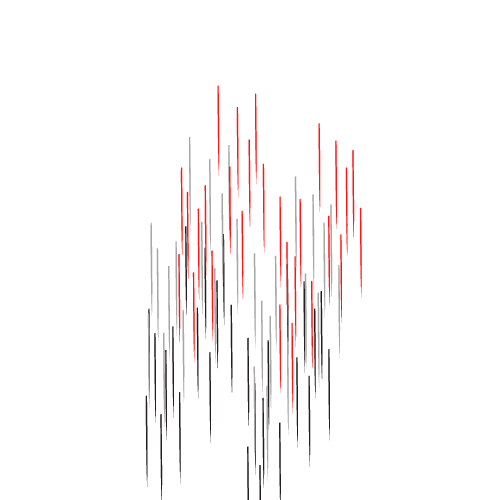
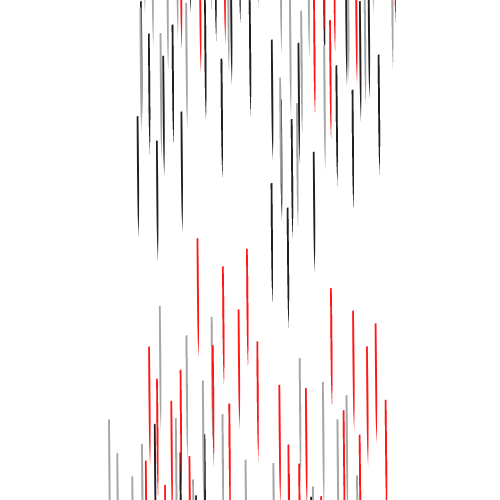
bug fixes

Changed region(s): [[0.21, 0.0, 0.78, 1.0], [0.78, 0.0, 0.81, 0.09]]

diff --git a/New_Personal_Project/app.js b/New_Personal_Project/app.js
@@ -29,14 +29,13 @@ let bombsTiming = 500;
 function loopSpeedLines() {
 let speedTest = document.querySelector(".speed");
 let i = 1;
- setInterval(() => {
+let speedLoop = setInterval(() => {
   speedTest.style.backgroundImage = "url('assets/" + i + ".png')";
   i++;
-  if (i > 11) {
+  if (i > 10) {
     i = 1;
   }
  }, 100)
-
 }
 
 function updateLvlOnStart (x) {
@@ -235,7 +234,6 @@ function addPlayerShip() {
 function removePlayerShip() {                      // remove playership
 cells[playerPosit].classList.remove('playerShip');
 cells[speedPos].classList.remove('speed');
-cells[speedPos].style.backgroundImage = '';
 }
 
 function removeAlienShip(z) {                      //remove playership
@@ -324,7 +322,6 @@ function dropBombs(bombsTiming) {           //time loop that drops bombs from al
 
 function levelChange(x) { //change level and restart game
   x ++;                                 //for each level change +1
- //saves the player name
   localStorage.setItem("level", x); //saves the level number
   localStorage.setItem("bombs", x); //saves the player name
   location.reload(); //reloads the game
@@ -340,7 +337,6 @@ function levelChange(x) { //change level and restart game
     for (let i = 0; i < cellCount; i++) {
       if ((cells[i].classList.contains('alienShip') && cells[i].classList.contains('rocksClass')) || (cells[i].classList.contains('alienShip2') && cells[i].classList.contains('rocksClass')) || (cells[i].classList.contains('alienShip3') && cells[i].classList.contains('rocksClass')) ) {
         gameOver = 2;
-        console.log(gameOver)
       }
   }
 }

diff --git a/New_Personal_Project/style.css b/New_Personal_Project/style.css
@@ -46,7 +46,7 @@ body{
 }
 
 .alienBomb {
-  background-image: url('assets/nuclear-bomb.png');
+  background-image: url('assets/torpedo-3.png');
   background-size: contain;
   background-repeat: no-repeat ;
   background-position: center;
